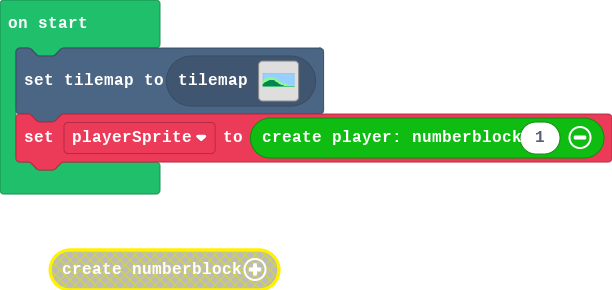
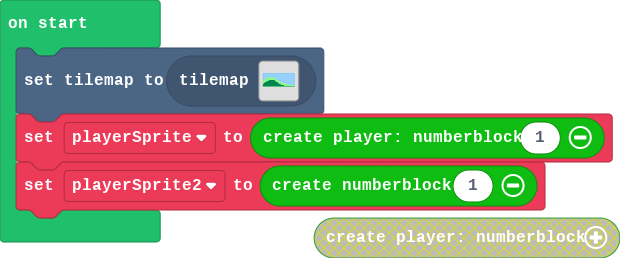
Update pxt.json, main.blocks, main.ts, custom.ts

diff --git a/custom.ts b/custom.ts
@@ -87,7 +87,7 @@ namespace numberblocks {
 
     //% block="create numberblock || $number"
     //% number.defl=1
-    //% help=github:numberblocks/docs/create-numberblock
+    //% help=github:wycats/numberblocks/docs/create-numberblock
     export function createNumberblock(number: number) {
         const sprite = sprites.create(img`...`, SpriteKind.Player)
         sprite.ay = 200

diff --git a/main.ts b/main.ts
@@ -3,3 +3,4 @@ namespace SpriteKind {
 }
 tiles.setCurrentTilemap(tilemap`level2`)
 let playerSprite = numberblocks.createPlayer(1)
+let playerSprite2 = numberblocks.createNumberblock(1)
